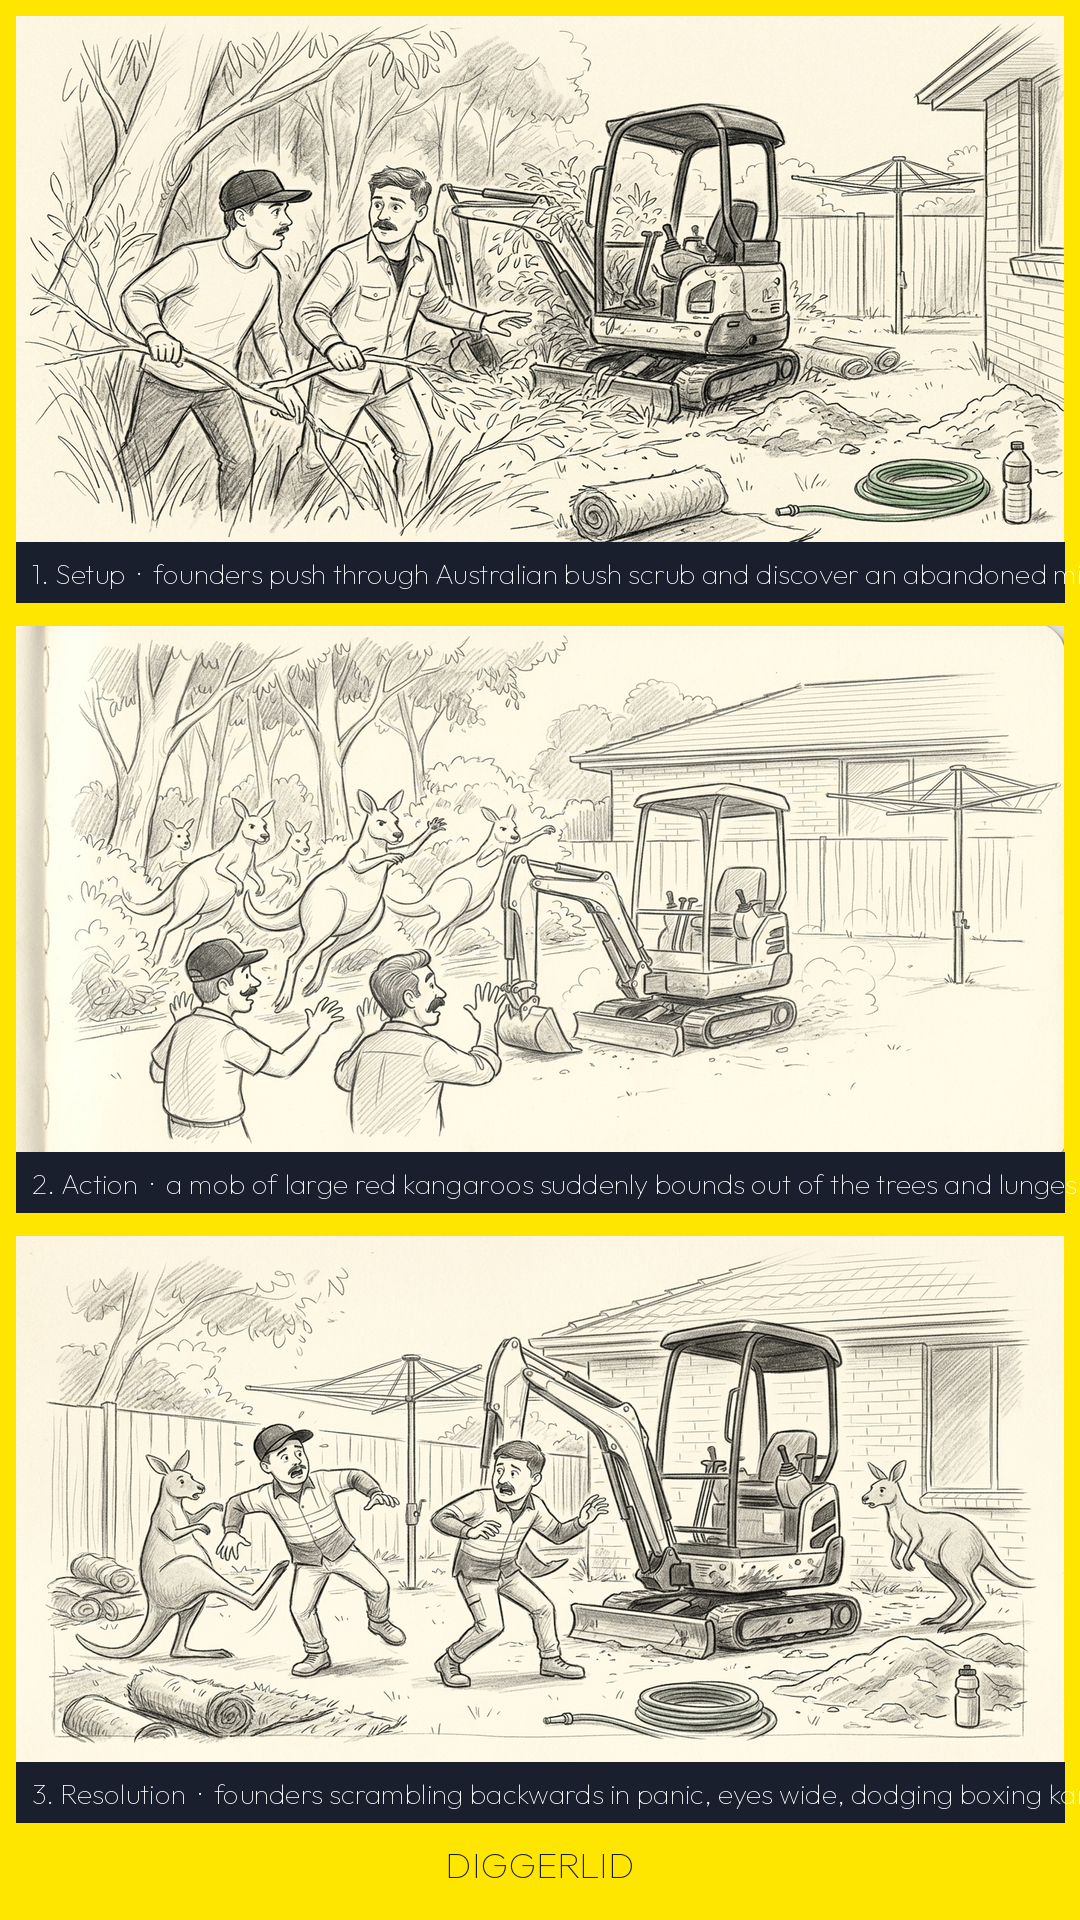
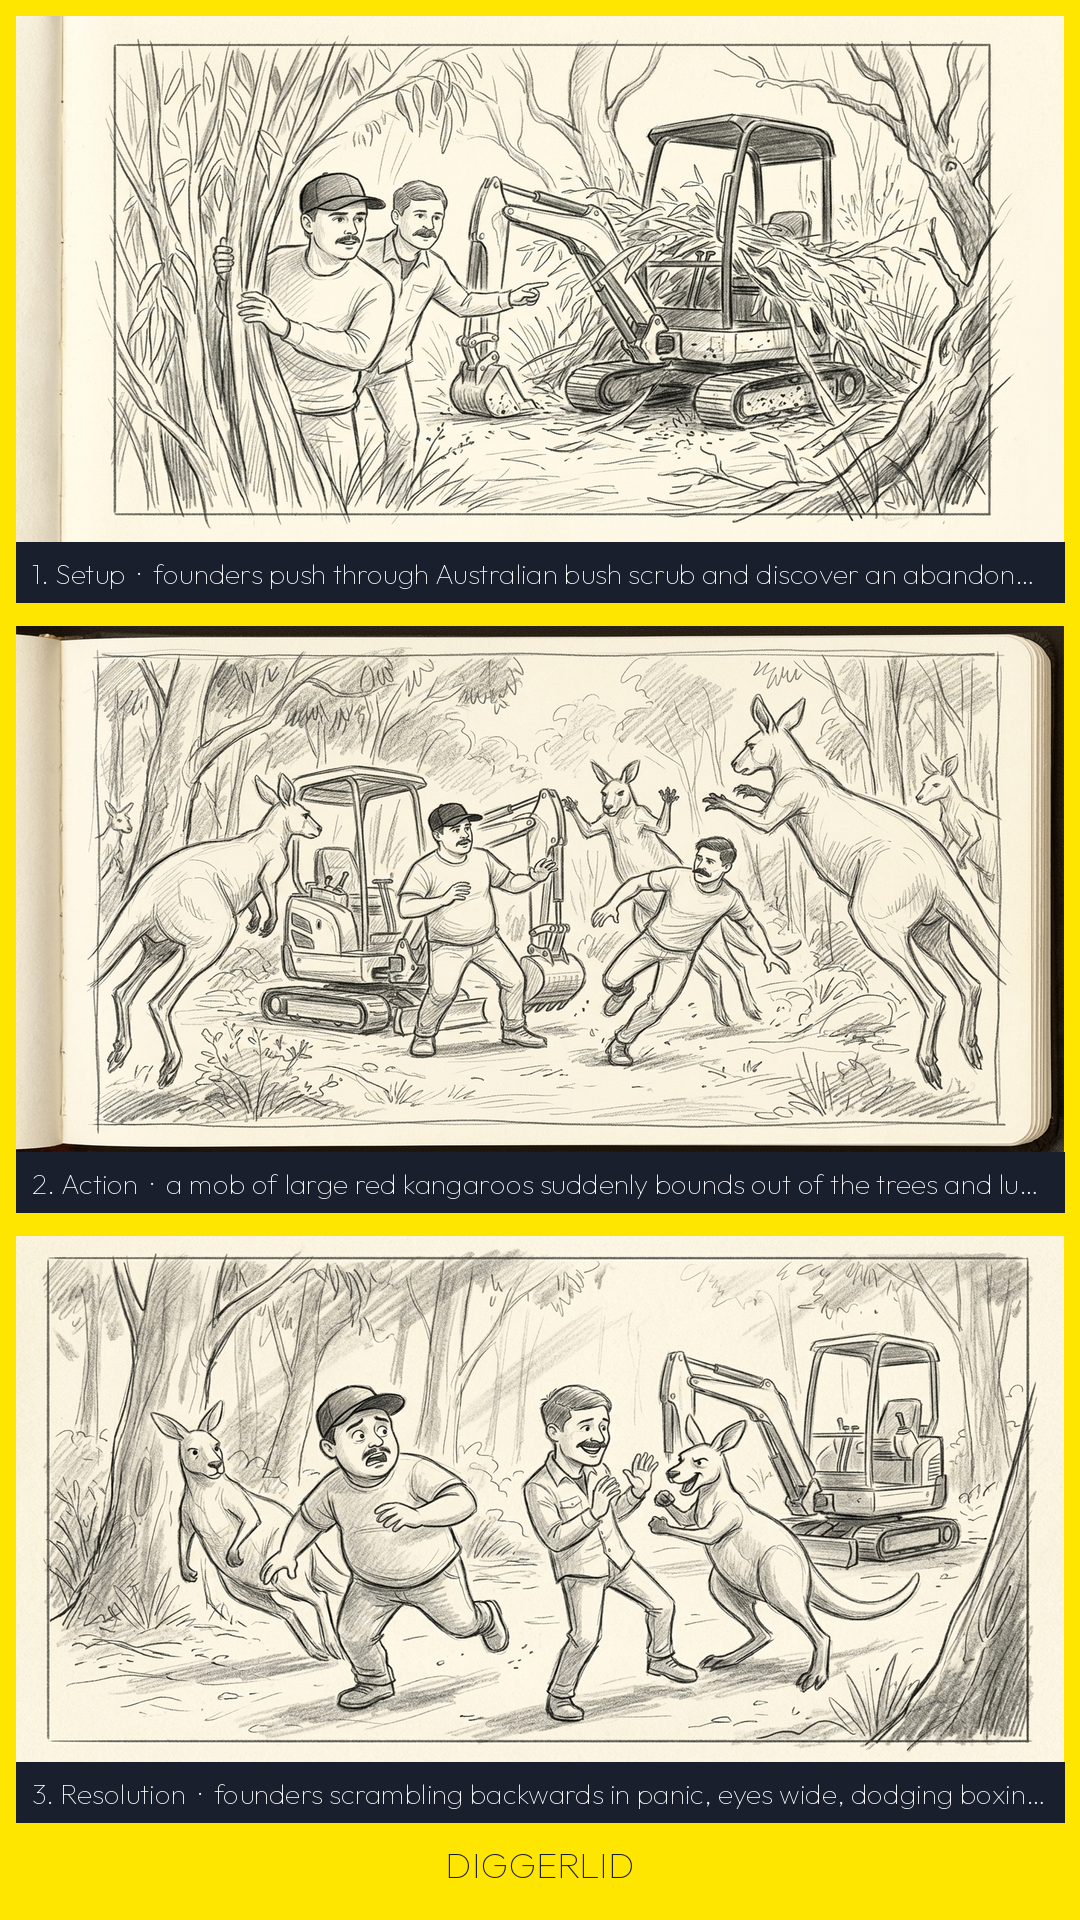
v3 fixes: caption auto-fit + setting precedence
Two surgical fixes for the regressions noted in commit 085ce1f:

1. Caption auto-fit
   The fixed 80-char clamp on beat text didn't account for actual
   rendered pixel width at 28pt — long beats got cut mid-character.
   Added _fit_caption() helper that uses draw.textbbox() to measure
   the rendered string and chops the beat portion one char at a time,
   appending '…', until it fits the 1016-px-wide caption strip. Label
   and separator stay intact.

2. Setting precedence
   The brand preset's 'suburban backyard' descriptor was overriding
   beat-level setting cues like 'Australian bush'. Rewrote the prompt
   scaffold to put a SETTING PRECEDENCE clause before the brand context,
   explicitly telling the model: 'beat setting wins, brand identity
   applies only when the beat doesn't fix a different setting.'

Re-ran the kangaroo prompt (085ce1f deliverable) — verified both fixes
hold. Frames are now pure bush throughout (no brick-veneer house bleed)
and captions cleanly ellipsise. Cap-on-Founder-A and full-monochrome
rendering also held, confirming the v2 fixes are stable across
scaffold rewrites.

Cost: ~$0.234 for the v3 re-run.

https://claude.ai/code/session_01Ckan5ARmwFiBqnqesw2ioj

diff --git a/.claude/skills/storyboard/scripts/storyboard.py b/.claude/skills/storyboard/scripts/storyboard.py
@@ -89,6 +89,28 @@ def _strip_color_cues(text):
     return out
 
 
+def _fit_caption(draw, label, beat, font, max_width):
+    """Build the caption string and trim the beat portion until it fits the strip.
+
+    Always renders `<label>  ·  <beat>`. If the full text overflows max_width
+    pixels at the given font, progressively chops characters off the end of
+    the beat and replaces with `…` until it fits. Label and separator stay
+    intact — they are short enough that they always fit.
+    """
+    text = f"{label}  ·  {beat}"
+    bbox = draw.textbbox((0, 0), text, font=font)
+    if bbox[2] - bbox[0] <= max_width:
+        return text
+    trimmed = beat
+    while len(trimmed) > 1:
+        trimmed = trimmed[:-1].rstrip()
+        candidate = f"{label}  ·  {trimmed}…"
+        bbox = draw.textbbox((0, 0), candidate, font=font)
+        if bbox[2] - bbox[0] <= max_width:
+            return candidate
+    return f"{label}  ·  …"
+
+
 # ------------------------- Helpers -------------------------
 
 
@@ -295,6 +317,7 @@ def compose_storyboard(frame_pngs, beats, brand_name, output_path):
 
     y = BORDER_PX
     labels = ["1. Setup", "2. Action", "3. Resolution"]
+    caption_max_w = FRAME_W - 32  # 16 px padding on each side of the strip
     for idx, png_bytes in enumerate(frame_pngs):
         # Frame artwork
         frame = Image.open(__import__("io").BytesIO(png_bytes)).convert("RGB")
@@ -302,10 +325,9 @@ def compose_storyboard(frame_pngs, beats, brand_name, output_path):
         canvas.paste(frame, (BORDER_PX, y))
         y += FRAME_H
 
-        # Caption strip
+        # Caption strip — auto-fit beat text to the strip width, ellipsise overflow
         draw.rectangle([BORDER_PX, y, BORDER_PX + FRAME_W, y + CAPTION_H], fill=NAVY)
-        beat_text = beats[idx][:80]
-        text = f"{labels[idx]}  ·  {beat_text}"
+        text = _fit_caption(draw, labels[idx], beats[idx], caption_font, caption_max_w)
         draw.text((BORDER_PX + 16, y + (CAPTION_H - 28) // 2 - 2),
                   text, fill=WHITE, font=caption_font)
         y += CAPTION_H
@@ -446,14 +468,21 @@ def main():
         beat_prompt = (
             f"{PENCIL_STYLE}\n\n"
             f"Beat {idx+1} of 3 — {beat}.\n\n"
-            f"Setting and brand context: {style_descriptor[:600]}.\n"
+            "SETTING PRECEDENCE: take the location and environment cues directly "
+            "from the beat sentence above. If the beat names a specific place "
+            "(bush, beach, warehouse, depot, indoors, etc.) render THAT place. "
+            "Do NOT default to the brand's typical environment when the beat "
+            "specifies a different one.\n\n"
+            f"Brand visual identity (apply only when the beat doesn't fix a "
+            f"different setting): {style_descriptor[:500]}.\n"
             f"{machine_clause}{anchor_clause}\n\n"
-            "RENDER MODE OVERRIDE: any colour words appearing above (orange, yellow, "
-            "navy, etc.) are identifying labels only — they describe what the brand "
-            "looks like in real life. For THIS render the artwork is fully monochrome "
-            "graphite pencil — no colour fills, no orange paint, no yellow accents. "
-            "Pencil tones only across every object and figure. Do NOT render any logos, "
-            "brand names, or printed text on the machine or in the scene."
+            "RENDER MODE OVERRIDE: any colour words appearing above (orange, "
+            "yellow, navy, etc.) are identifying labels only — they describe what "
+            "the brand looks like in real life. For THIS render the artwork is "
+            "fully monochrome graphite pencil — no colour fills, no orange paint, "
+            "no yellow accents. Pencil tones only across every object and figure. "
+            "Do NOT render any logos, brand names, or printed text on the machine "
+            "or in the scene."
         )
         png_bytes = generate_frame(beat_prompt, reference_images, preset, api_key, args.model)
         frame_pngs.append(png_bytes)
